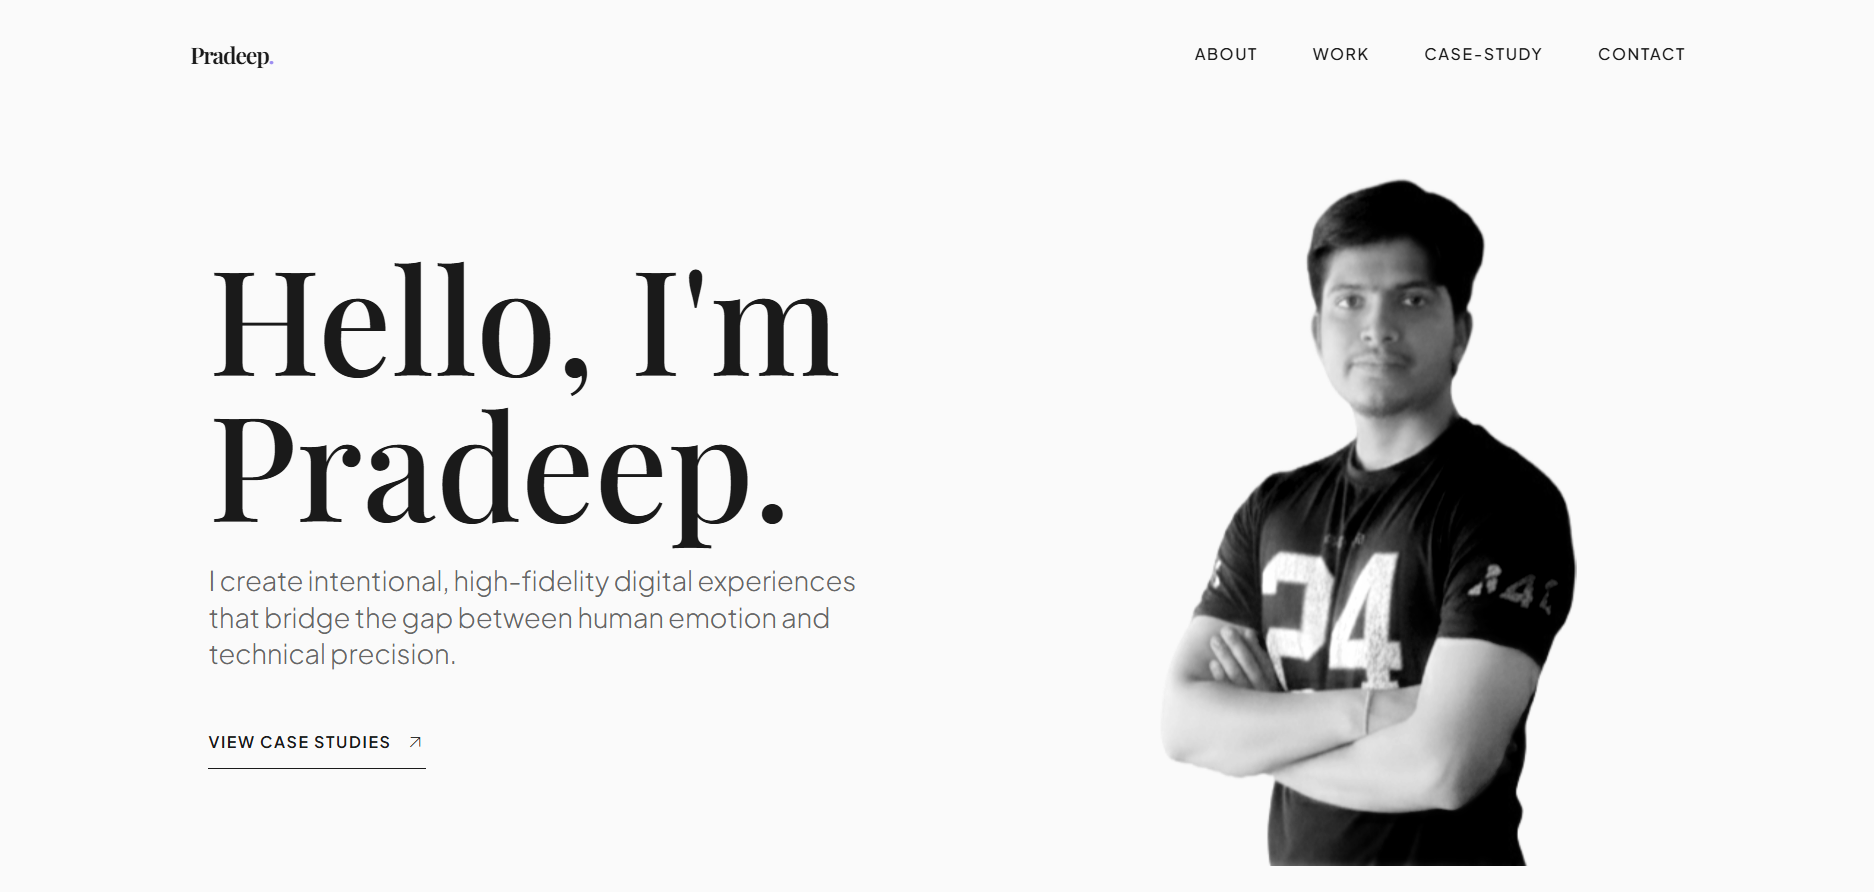
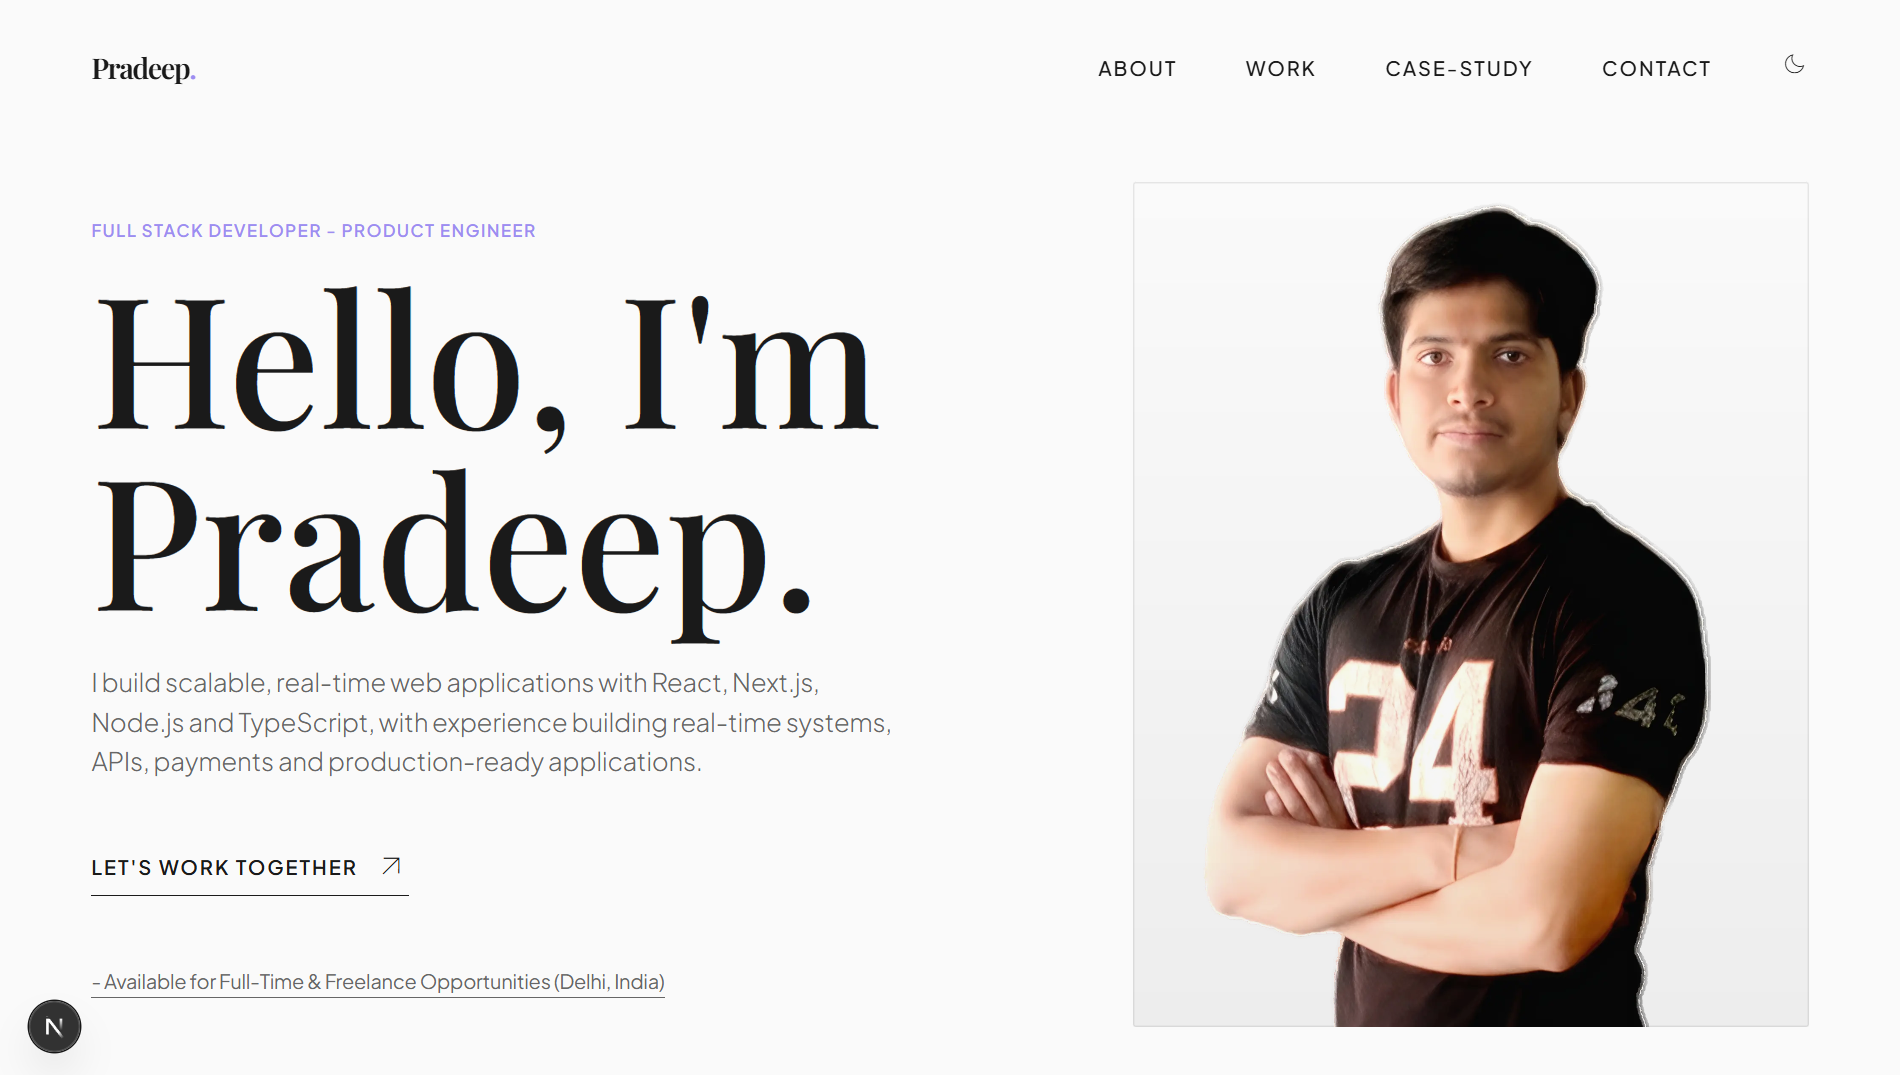
feat: update metadata and content across multiple components; enhance footer with social links; improve testimonials and philosophy sections for clarity and impact

diff --git a/frontend/app/layout.tsx b/frontend/app/layout.tsx
@@ -16,22 +16,23 @@ const jakarta = Plus_Jakarta_Sans({
   display: "swap",
 });
 
+const SITE_URL = "https://pradeep-sharma.vercel.app";
+
 export const metadata: Metadata = {
-  metadataBase: new URL("https://pradeep-sharma.vercel.app"),
+  metadataBase: new URL(SITE_URL),
 
   title: {
-    default:
-      "Pradeep Sharma | Full Stack Developer in India | React, Next.js, Node.js Expert",
+    default: "Pradeep Sharma | Full Stack Developer in India, New delhi",
     template: "%s | Pradeep Sharma",
   },
 
   description:
-    "Pradeep Sharma is a Full Stack Developer based in India specializing in React.js, Next.js, Node.js, Express, MongoDB, MySQL, and Python. Expert in Frontend, Backend, UI/UX Design, and scalable web applications for global clients.",
+    "Pradeep Sharma is a Full Stack Developer in India, New Delhi specializing in React, Next.js, Node.js, TypeScript, MongoDB, MySQL and scalable web applications.",
 
   keywords: [
     // Primary
     "Pradeep Sharma",
-    "Full Stack Developer India",
+    "Full Stack Developer India, New Delhi",
     "Frontend Developer India",
     "Backend Developer India",
     "UI UX Designer India",
@@ -45,14 +46,11 @@ export const metadata: Metadata = {
     "MySQL Developer",
     "Python Developer",
     "JavaScript Developer",
-    "HTML CSS Developer",
 
     // Stack targeting
     "MERN Stack Developer",
     "Full Stack JavaScript Developer",
     "Web Developer India",
-    "Hire Full Stack Developer India",
-    "Remote Developer India",
   ],
 
   authors: [{ name: "Pradeep Sharma" }],
@@ -60,33 +58,38 @@ export const metadata: Metadata = {
   publisher: "Pradeep Sharma",
 
   alternates: {
-    canonical: "https://pradeep-sharma.vercel.app",
+    canonical: "/",
   },
 
   openGraph: {
-    title:
-      "Pradeep Sharma | Full Stack Developer (React, Next.js, Node.js) | India",
+    title: "Pradeep Sharma | Full Stack Developer in India, New Delhi",
     description:
-      "India-based Full Stack Developer building scalable, modern web applications using React, Next.js, Node.js, Express, MongoDB, MySQL, and Python. Available for global projects.",
-    url: "https://pradeep-sharma.vercel.app",
-    siteName: "Pradeep Sharma Portfolio",
+      "Full Stack Developer specializing in React, Next.js, Node.js and modern web application development.",
+    url: SITE_URL,
+    siteName: "Pradeep Sharma",
+    locale: "en_IN",
+    type: "website",
     images: [
       {
         url: "/og-image.png",
         width: 1200,
         height: 630,
-        alt: "Pradeep Sharma Full Stack Developer Portfolio",
+        alt: "Pradeep Sharma — Full Stack Developer",
+      },
+      {
+        url: "/profile-picture.jpeg",
+        width: 1280,
+        height: 1280,
+        alt: "Pradeep Sharma — Full Stack Developer New Delhi",
       },
     ],
-    locale: "en_IN",
-    type: "website",
   },
 
   twitter: {
     card: "summary_large_image",
-    title: "Pradeep Sharma | Full Stack Developer in India",
+    title: "Pradeep Sharma | Full Stack Developer in India, New Delhi",
     description:
-      "React, Next.js, Node.js, Express, MongoDB & Python Developer. UI/UX focused web solutions for global clients.",
+      "Full Stack Developer specializing in React, Next.js and Node.js.",
     images: ["/og-image.png"],
   },
 
@@ -143,6 +146,8 @@ export default function RootLayout({
               address: {
                 "@type": "PostalAddress",
                 addressCountry: "India",
+                addressLocality: "New Delhi",
+                addressRegion: "Delhi",
               },
               url: "https://pradeep-sharma.vercel.app",
               sameAs: [

diff --git a/frontend/components/home/Hero.tsx b/frontend/components/home/Hero.tsx
@@ -8,30 +8,34 @@ const Hero = () => {
         <div className="lg:col-span-7 space-y-12">
           <div className="space-y-6">
             <div className="space-y-3">
-              <span className="text-xs font-bold uppercase tracking-[0.25em] text-[var(--accent-purple)]">
-                FULL STACK DEVELOPER
+              <span className="text-xs font-bold uppercase tracking-[0.08em] text-[var(--accent-purple)]">
+                Full Stack Developer - Product Engineer
               </span>
               <h1 className="text-6xl md:text-8xl lg:text-9xl leading-[0.9] font-medium serif-font">
                 Hello, I'm <br />
                 Pradeep.
               </h1>
             </div>
-            <p className="text-lg md:text-xl text-[var(--text-muted)] font-light max-w-xl leading-relaxed">
+            <p className="text-md md:text-lg text-[var(--text-muted)] font-light max-w-xl">
               I build scalable, real-time web applications with React, Next.js,
-              Node.js and modern technologies — combining strong engineering
-              fundamentals with thoughtful UI, UX and visual design principles.
+              Node.js and TypeScript, with experience building real-time
+              systems, APIs, payments and production-ready applications.
             </p>
           </div>
-          <div className="flex gap-8">
+
+          <div className="flex gap-8 items-center">
             <a
               className="inline-flex items-center gap-3 text-sm font-semibold uppercase tracking-widest border-b border-[var(--text-main)] pb-2 hover:text-[var(--accent-purple)] hover:border-[var(--accent-purple)] transition-colors duration-300"
-              href="#portfolio"
+              href="#contact"
             >
-              View Case Studies
+              Let's Work Together
               <span className="material-symbols-outlined text-lg">
                 arrow_outward
               </span>
             </a>
+          </div>
+          <div className="text-sm inline-flex border-b border-[var(--text-muted)] text-[var(--text-muted)] leading-relaxed">
+            - Available for Full-Time & Freelance Opportunities (Delhi, India)
           </div>
         </div>
         <div className="lg:col-span-5 relative">

diff --git a/frontend/components/home/Philosophy.tsx b/frontend/components/home/Philosophy.tsx
@@ -10,20 +10,26 @@ const Philosophy = () => {
         <span className="text-xs font-bold uppercase tracking-[0.3em] text-[var(--accent-purple)]">
           The Philosophy
         </span>
-        <h2 className="text-4xl md:text-5xl serif-font leading-tight space-y-7 text-[var(--text-main)]">
-          Building systems that work. Designing experiences that feel right.
+        <h2 className="text-5xl md:text-6xl serif-font leading-tight space-y-7 text-[var(--text-main)]">
+          I enjoy solving problems through code.
         </h2>
         <div className="space-y-6 text-lg text-[var(--text-muted)] font-light leading-relaxed">
           <p>
-            I don't see design and development as separate disciplines. I use
-            principles of hierarchy, spacing, typography, composition and
-            interaction to build interfaces that are not only technically
-            robust, but also intuitive and enjoyable to use.
+            My experience spans the entire development lifecycle - from
+            designing REST APIs and database architecture to building responsive
+            interfaces, real-time systems, payment workflows and WebRTC-based
+            experiences.
           </p>
           <p>
-            Whether it's a payment flow, real-time communication system, or
-            complex dashboard, I focus on making the underlying technology
-            reliable while keeping the experience simple and intuitive
+            At <a className="hover:text-[var(--accent-purple)] underline hover:cursor-pointer"  href="https://www.internfree.in" target="_blank" rel="noopener noreferrer">InternFree</a>, I joined when the product was still an idea and grew
+            into a role where I worked across the complete application,
+            eventually helping guide other developers and coordinate product
+            implementation
+          </p>
+          <p>
+            For me, writing code is only part of the job. Understanding the
+            problem, making the right technical decisions and taking ownership
+            of the outcome are equally important.
           </p>
         </div>
       </div>

diff --git a/frontend/components/home/Contact.tsx b/frontend/components/home/Contact.tsx
@@ -11,14 +11,14 @@ const Contact = () => {
   const [loading, setLoading] = useState(false);
   const [success, setSuccess] = useState(false);
 
-  const handleChange = (e:any) => {
+  const handleChange = (e: any) => {
     setFormData({
       ...formData,
       [e.target.name]: e.target.value,
     });
   };
 
-  const handleSubmit = async (e:any) => {
+  const handleSubmit = async (e: any) => {
     e.preventDefault();
     setLoading(true);
     setSuccess(false);
@@ -49,7 +49,7 @@ const Contact = () => {
     >
       <div className="max-w-7xl mx-auto px-8 md:px-16 text-center">
         <h2 className="text-6xl md:text-9xl serif-font mb-16 leading-none">
-          Let's talk.
+          Let's Build.
         </h2>
         <div className="flex flex-col items-center gap-8">
           <a
@@ -59,14 +59,29 @@ const Contact = () => {
             pradeepsharma7319@gmail.com
           </a>
           <div className="flex justify-center gap-8 text-[10px] font-bold uppercase tracking-[0.2em] text-[var(--text-muted)]">
-            <a className="nav-link" href="#">
+            <a
+              className="nav-link"
+              href="https://github.com/pradeepSharmadev"
+              target="_blank"
+              rel="noopener noreferrer"
+            >
+              GitHub
+            </a>
+            <a
+              className="nav-link"
+              href="https://www.linkedin.com/in/pradeepsharma01"
+              target="_blank"
+              rel="noopener noreferrer"
+            >
               LinkedIn
             </a>
-            <a className="nav-link" href="#">
-              Dribbble
-            </a>
-            <a className="nav-link" href="#">
-              Instagram
+            <a
+              className="nav-link"
+              href="https://leetcode.com/u/Pradeep_kumarr_sharmaa"
+              target="_blank"
+              rel="noopener noreferrer"
+            >
+              Leetcode
             </a>
           </div>
         </div>

diff --git a/frontend/components/home/Testimonial.tsx b/frontend/components/home/Testimonial.tsx
@@ -5,21 +5,21 @@ import { RiDoubleQuotesR } from "react-icons/ri";
 const testimonials = [
   {
     quote:
-      "Working with Pradeep was an exercise in clarity. He has a rare ability to transform abstract business goals into elegant, intuitive digital solutions.",
-    name: "Jonathan Doe",
-    role: "Product Manager at Technova",
+      "Pradeep is a strong problem-solver and a dependable developer. He takes ownership of his work, communicates clearly, and is always focused on delivering the right solution. I'd be happy to work with him again.",
+    name: "Gaurav Karki",
+    role: "Developer & Collaborator",
   },
   {
     quote:
-      "Pradeep delivers beyond expectations. His design thinking and execution are world-class.",
-    name: "Sarah Lee",
-    role: "Founder at Creatix",
+      "Pradeep has a strong understanding of full-stack development and approaches problems with a practical mindset. He is easy to collaborate with and takes responsibility for getting things done.",
+    name: "Chirag Khandewal",
+    role: "Developer & Collaborator",
   },
   {
     quote:
-      "Professional, strategic, and incredibly detail-oriented. Highly recommended.",
-    name: "Michael Smith",
-    role: "CTO at InnovateX",
+      "Pradeep turned our idea into a complete product and took ownership far beyond writing code. His technical execution, product understanding and ability to guide the team made a real impact on InternFree.",
+    name: "Shiv Kumar Soni",
+    role: "Founder & CEO, InternFree",
   },
 ];
 

diff --git a/frontend/components/Footer.tsx b/frontend/components/Footer.tsx
@@ -1,4 +1,4 @@
-import React from 'react'
+import React from "react";
 
 const Footer = () => {
   return (
@@ -8,6 +8,33 @@ const Footer = () => {
           <h3 className="text-2xl serif-font italic">
             Thank you for visiting.
           </h3>
+
+          <div className="flex justify-left gap-4 text-sm text-[var(--text-main)]">
+            <a
+              className="hover:text-[var(--accent-purple)] hover:underline"
+              href="https://github.com/pradeepSharmadev"
+              target="_blank"
+              rel="noopener noreferrer"
+            >
+              GitHub
+            </a>
+            <a
+              className="hover:text-[var(--accent-purple)] hover:underline"
+              href="https://www.linkedin.com/in/pradeepsharma01"
+              target="_blank"
+              rel="noopener noreferrer"
+            >
+              LinkedIn
+            </a>
+            <a
+              className="hover:text-[var(--accent-purple)] hover:underline"
+              href="https://leetcode.com/u/Pradeep_kumarr_sharmaa"
+              target="_blank"
+              rel="noopener noreferrer"
+            >
+              Leetcode
+            </a>
+          </div>
           <p className="text-xs text-[var(--text-muted)] uppercase tracking-widest font-light">
             © 2026 Pradeep Sharma — All rights reserved.
           </p>
@@ -35,6 +62,6 @@ const Footer = () => {
       </div>
     </footer>
   );
-}
+};
 
-export default Footer
+export default Footer;

diff --git a/frontend/components/home/Expertise.tsx b/frontend/components/home/Expertise.tsx
@@ -8,7 +8,7 @@ const Expertise = () => {
     >
       <div className="max-w-[1440px] mx-auto px-8 md:px-16">
         <div className="space-y-4 mb-16">
-          <h2 className="text-5xl md:text-7xl serif-font">What I Build</h2>
+          <h2 className="text-5xl md:text-7xl serif-font">What I Do</h2>
           <p className="text-[var(--text-muted)] font-light text-lg">
             Focused on building production-ready applications
           </p>
@@ -29,7 +29,7 @@ const Expertise = () => {
             </p>
           </div>
           <div className="space-y-6 pt-8 border-t border-[var(--border-color)]">
-            <h3 className="text-2xl serif-font">Design Systems & UI/UX</h3>
+            <h3 className="text-2xl serif-font">UI/UX</h3>
             <p className="text-[var(--text-muted)] font-light leading-relaxed">
               Applying typography, spacing, hierarchy, color, composition and
               interaction principles to create consistent, intuitive interfaces.
